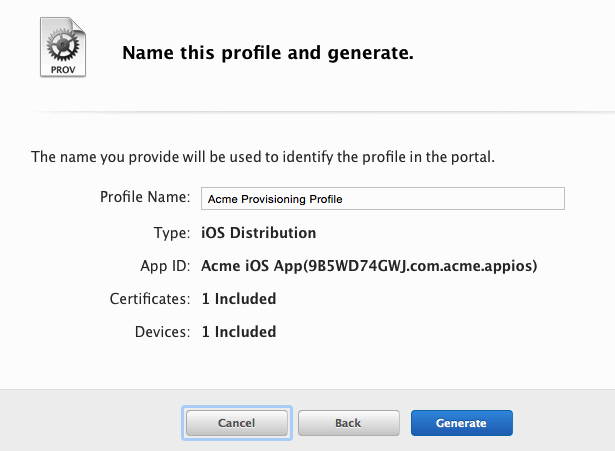
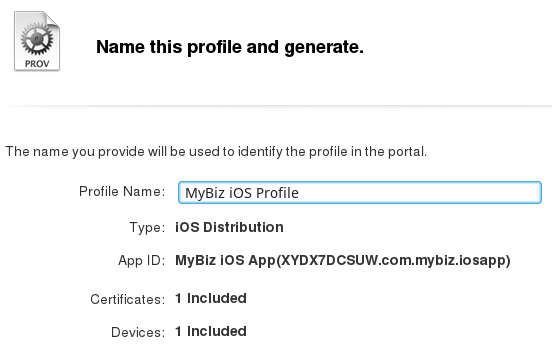
update ios ownbrander screenshots & text corrections

diff --git a/admin_manual/enterprise_ios_app/publishing_ios_app_4.rst b/admin_manual/enterprise_ios_app/publishing_ios_app_4.rst
@@ -3,17 +3,24 @@ Setting up Testing Devices
 ==========================
 
 The $99 Apple Developer account allows you to test your iOS apps on a maximum of 
-100 devices, and you must register the UDID of each device in your Apple 
-developer account.
+100 devices of each type::
 
-First you must find the UDIDs of your test devices. The easiest way is to 
-connect to your iTunes account. Then connect your iOS device to your Mac 
-computer. Your device will appear on the left sidebar in iTunes. Click on this 
-to display your device information. Then click on the serial number, and you 
-will your UDID.
+ Apple TV     100
+ Apple Watch  100
+ iPad         100
+ iPhone       100 
+ iPod Touch   100
+
+And you must register the UDID of each device in your Apple developer account. 
+If you have the $299 Enterprise account then you can install your app on any 
+device without registering it.
+
+The easiest way to find UDIDs is to connect to your iTunes account. Then connect 
+your iOS device to your Mac computer. Your device will appear on the left 
+sidebar in iTunes. Click on this to display your device information. Then click 
+on the serial number, and you will see your UDID.
 
 .. figure:: ../images/itunes-udid.png
-   :scale: 80%
     
 Return to your account on `Developer.apple.com 
 <https://developer.apple.com>`_, go to **IOS Apps > 
@@ -22,7 +29,6 @@ device. You can make the name anything you want, and the UDID must be the UDID
 copied from iTunes.
 
 .. figure:: ../images/itunes-udid-3.png
-   :scale: 80%
  
 If you have a large number of devices to register, you may enter them in a text 
 file in this format, and then upload the file::
@@ -31,10 +37,10 @@ file in this format, and then upload the file::
  A123456789012345678901234567890123456789	NAME1
  B123456789012345678901234567890123456789	NAME2
  
-Click ``Download sample files`` to see examples of plain text and markup files.
+Click **Download sample files** to see examples of plain text and markup 
+files.
 
 .. figure:: ../images/itunes-udid-4.png
-   :scale: 80%
 
 When you are finished entering your device IDs click the **Continue** button. 
 Verify, and then click **Done**.

diff --git a/admin_manual/enterprise_ios_app/publishing_ios_app_5.rst b/admin_manual/enterprise_ios_app/publishing_ios_app_5.rst
@@ -2,50 +2,44 @@
 Create Provisioning Profiles
 ============================
 
-The next phase is to create three provisioning profiles. These are the profiles 
-that you will email to branding@owncloud.com after building your branded app 
-with the ownBrander app on 
+The next phase of this glorious journey is to create three provisioning 
+profiles. These are the profiles that you will email to branding@owncloud.com 
+after building your branded app with the ownBrander app on 
 `Customer.owncloud.com <https://customer.owncloud.com/owncloud>`_.
 
 First Provisioning Profile
 --------------------------
 
 Go to **Provisioning Profiles > All**, then click the plus button (top right) 
-to open the *Add iOS Provisioning Profile* screen. Select *Ad Hoc* and click 
+to open the *Add iOS Provisioning Profile* screen. Select **Ad Hoc** and click 
 **Continue**.
 
 .. figure:: ../images/cert-35.png
-   :scale: 80%
    
 On the **Select App ID** screen select the first of the three App IDs that you 
 created and click **Continue**. (The first one has the shortest name, if you 
 followed the naming conventions in this manual.)
 
 .. figure:: ../images/cert-36.png
-   :scale: 80%
 
 Select the certificate that you created at the beginning of this process and 
 click **Continue**.
 
 .. figure:: ../images/cert-38.png
-   :scale: 80%
    
 Select the devices that you want to install and test your app on, then click 
 **Continue**.
 
 .. figure:: ../images/cert-39.png
-   :scale: 80%
    
-Name your provisioning profile with a descriptive **Profile Name**, which is 
-your **bundleID**, and click **Generate**. 
+Name your provisioning profile with a descriptive **Profile Name** and click 
+**Generate**. 
 
 .. figure:: ../images/cert-40.png
-   :scale: 80%
     
 When it has generated, download your new profile to your Mac computer.
 
 .. figure:: ../images/cert-50.png
-   :scale: 80%
    
 Find it on your Mac (usually the Download folder) and double-click to install 
 it in Xcode.

diff --git a/admin_manual/enterprise_ios_app/publishing_ios_app.rst b/admin_manual/enterprise_ios_app/publishing_ios_app.rst
@@ -15,7 +15,8 @@ Prerequisites
 * An iOS developer account on 
   `Developer.Apple.com/ios <https://developer.apple.com/ios/>`_, 
   which costs $99 per year. Or an Enterprise account for $299/yr. The 
-  developer account limits you to testing on 100 devices, which must be 
+  developer account limits you to testing on 100 devices of each type (Apple TV,
+  Apple Watch, iPad, iPhone, iPod Touch) which must be 
   registered in your account. The Enterprise account allows testing on 
   unlimited, unregistered devices.
 * An ownCloud Enterprise Subscription, with the ownBrander app enabled on 
